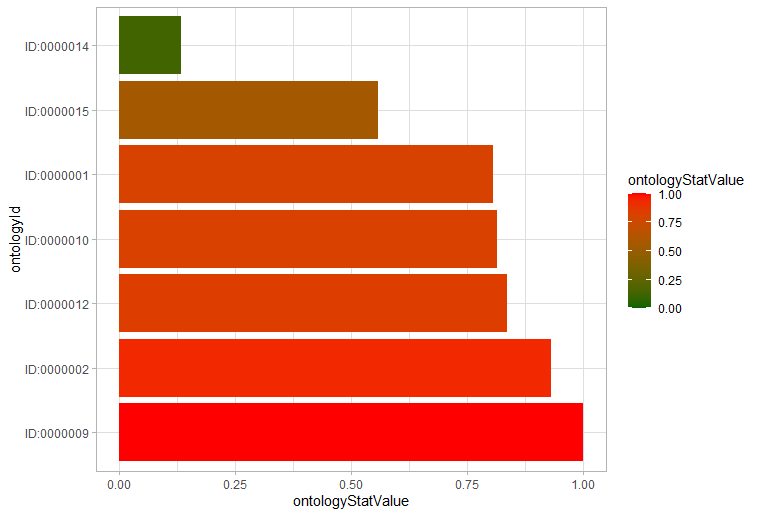
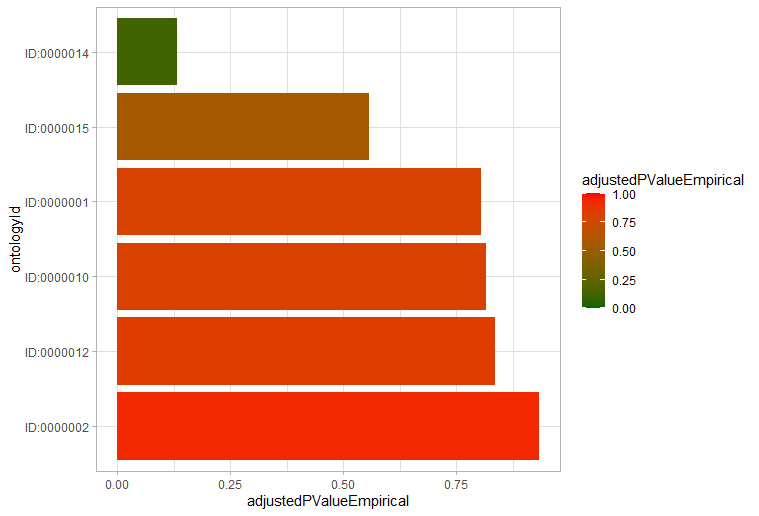
README update.

diff --git a/README.md b/README.md
@@ -22,7 +22,7 @@ Loading libraries and loading example input data:
 library(MulEA)
 muleaPkgDir <- find.package("MulEA")
 modelDfFromFile <- MulEA::readGmtFileAsDataFrame(
-    gmtFilePath = paste(muleaPkgDir,"/extdata/model.gmt", sep = ""))
+  gmtFilePath = paste(muleaPkgDir,"/extdata/model.gmt", sep = ""))
 selectDf <- read.csv2(file = './inst/extdata/selectData.csv')
 select <- selectDf[['select']]
 poolDf <- read.csv2(file = './inst/extdata/poolData.csv')
@@ -36,14 +36,15 @@ Running MulEA (two from few implemented approaches):
 
 ```{r}
 mulea_ora_model <- MulEA::ORA(
-    gmt = modelDfFromFile, testData = select, 
-    pool = pool, adjustMethod = "PT",
-    numberOfPermutations = number_of_steps)
+  gmt = modelDfFromFile, testData = select, 
+  pool = pool, adjustMethod = "PT",
+  numberOfPermutations = number_of_steps)
 mulea_ora_results <- MulEA::runTest(mulea_ora_model)
-mulea_ora_detailed_results <- MulEA::createDetailedResults(
-    mulea_model=mulea_ora_model, 
-    mulea_model_resuts=mulea_ora_results, 
-    category_stat_column_name='adjustedPValueEmpirical')
+
+mulea_ora_reshaped_results <- MulEA::reshapeResults(
+  mulea_model=mulea_ora_model, 
+  mulea_model_resuts=mulea_ora_results, 
+  category_stat_column_name='adjustedPValueEmpirical')
 ```
 
 - Ranked based tests represented by `RankedBasedTest` class (Subramanian method):
@@ -51,22 +52,28 @@ mulea_ora_detailed_results <- MulEA::createDetailedResults(
 ```{r}
 selectScores <- selectDf[['score']]
 mulea_ranked_model <- MulEA::RankedBasedTest(
-    method = "Subramanian", gmt = modelDfFromFile, 
-    testData = select, scores = selectScores)
+  gmt = modelDfFromFile, testData = select, scores = selectScores)
+
 mulea_sub_results <- MulEA::runTest(mulea_ranked_model)
-mulea_sub_detailed_results <- MulEA::createDetailedResults(
-    mulea_model = mulea_ranked_model, 
-    mulea_model_resuts = mulea_sub_results, 
-    mulea_model_resuts_ontology_col_name='ontologyId')
+
+mulea_sub_reshaped_results <- MulEA::reshapeResults(
+  mulea_model = mulea_ranked_model, 
+  mulea_model_resuts = mulea_sub_results, 
+  mulea_model_resuts_ontology_col_name='ontologyId')
 ```
 
 
 ## Results
 
 ```{r}
-MulEA::plotGraph(mulea_relaxed_resuts=mulea_ora_detailed_results, statistics_value_cutoff = 1.00)
-MulEA::plotBarplot(mulea_relaxed_resuts = mulea_ora_detailed_results, statistics_value_cutoff=1.00)
-MulEA::plotHeatmap(mulea_relaxed_resuts=mulea_ora_detailed_results, statistics_value_cutoff=1.00)
+MulEA::plotGraph(mulea_relaxed_resuts=mulea_ora_reshaped_results, statistics_value_cutoff = 1.00, 
+                 statistics_value_colname = 'adjustedPValueEmpirical')
+                 
+MulEA::plotBarplot(mulea_relaxed_resuts = mulea_ora_reshaped_results, statistics_value_cutoff=1.00,
+                   statistics_value_colname = 'adjustedPValueEmpirical')
+                   
+MulEA::plotHeatmap(mulea_relaxed_resuts=mulea_ora_reshaped_results, statistics_value_cutoff=1.00,
+                   statistics_value_colname = 'adjustedPValueEmpirical')
 ```
 
 <table style="padding:10px">
@@ -78,9 +85,11 @@ MulEA::plotHeatmap(mulea_relaxed_resuts=mulea_ora_detailed_results, statistics_v
 </table>
 
 ```{r}
-MulEA::plotGraph(mulea_relaxed_resuts=mulea_sub_detailed_results, statistics_value_cutoff = 1.00)
-MulEA::plotBarplot(mulea_relaxed_resuts = mulea_sub_detailed_results, statistics_value_cutoff=1.00)
-MulEA::plotHeatmap(mulea_relaxed_resuts=mulea_sub_detailed_results, statistics_value_cutoff=1.00)
+MulEA::plotGraph(mulea_relaxed_resuts=mulea_sub_reshaped_results, statistics_value_cutoff = 1.00)
+
+MulEA::plotBarplot(mulea_relaxed_resuts = mulea_sub_reshaped_results, statistics_value_cutoff=1.00)
+
+MulEA::plotHeatmap(mulea_relaxed_resuts=mulea_sub_reshaped_results, statistics_value_cutoff=1.00)
 ```
 
 <table style="padding:10px">
